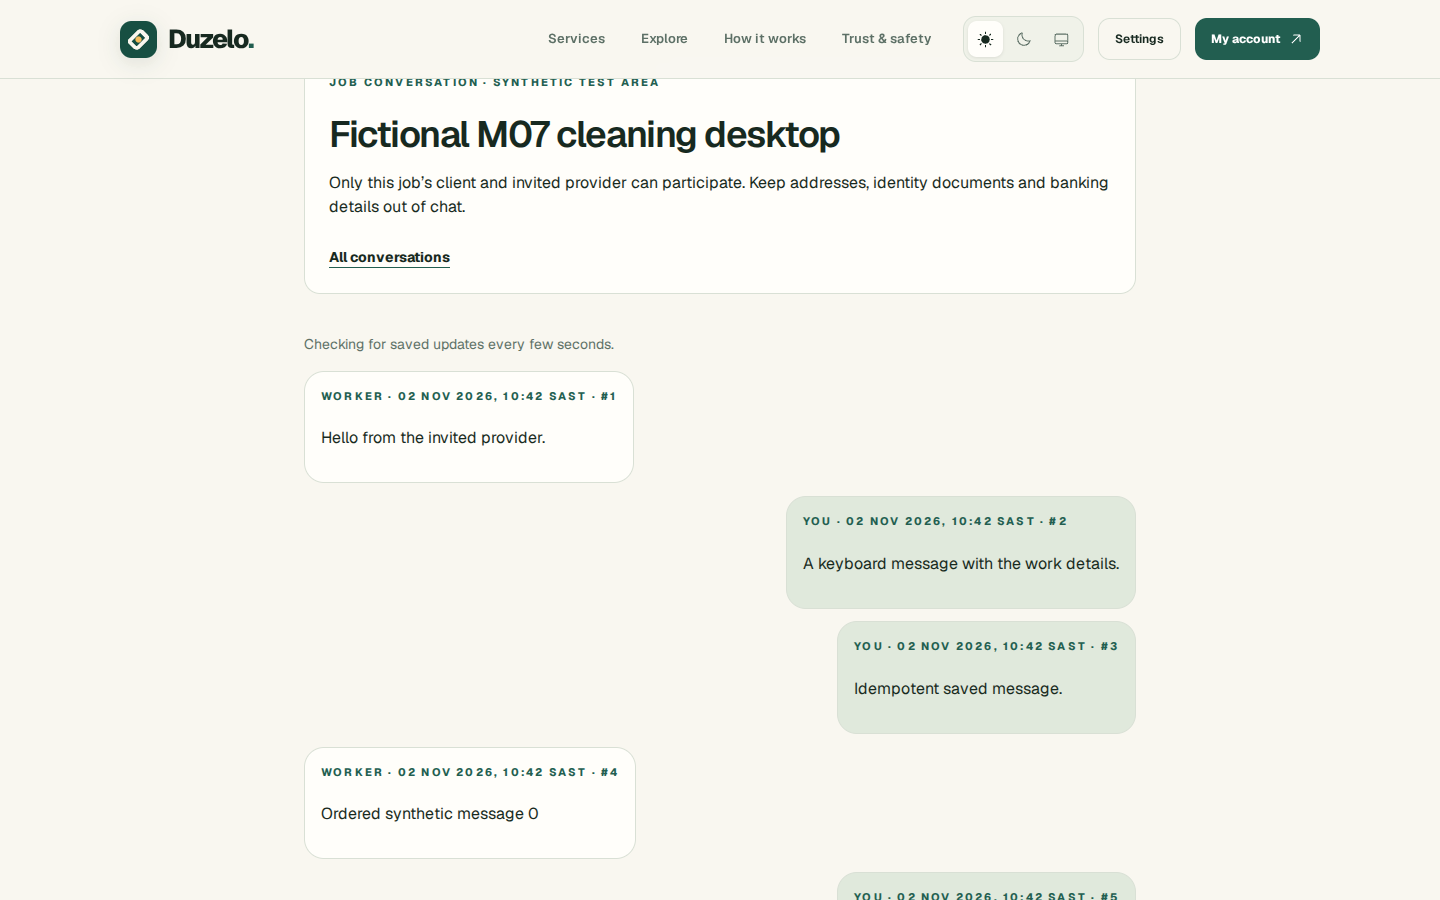
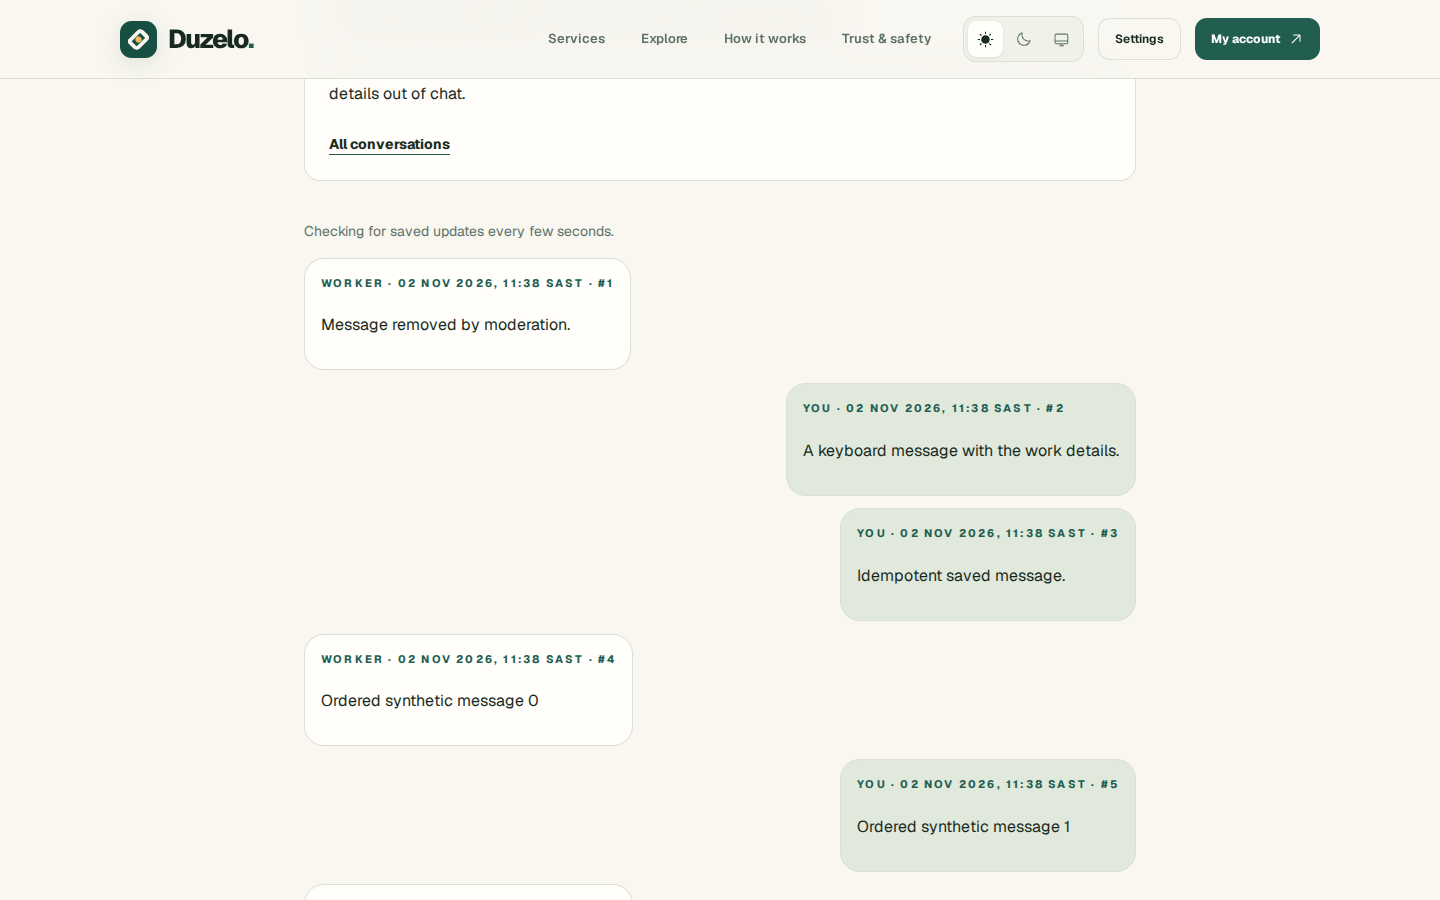
test(workflow): finalize reviewed native evidence and formatting

diff --git a/tests/auth-e2e/helpers/workflow-checks.ts b/tests/auth-e2e/helpers/workflow-checks.ts
@@ -25,11 +25,9 @@ export async function lifecycleChecks(
     .withExif({ IFD0: { ImageDescription: "EXIF-PRIVATE-42" } })
     .toBuffer();
   await worker.goto("/app/worker/bookings/" + b.bookingId);
-  const form = worker
-    .locator("form")
-    .filter({
-      has: worker.getByRole("heading", { name: "Submit completion for review", exact: true }),
-    });
+  const form = worker.locator("form").filter({
+    has: worker.getByRole("heading", { name: "Submit completion for review", exact: true }),
+  });
   const summary = form.getByLabel("Completion summary or explanation");
   await expect(summary).toHaveAttribute("minlength", "30");
   await expect(summary).toHaveAttribute("maxlength", "4000");

diff --git a/docs/evidence/milestone-07/README.md b/docs/evidence/milestone-07/README.md
@@ -33,3 +33,11 @@ Downloaded successful native artifact **13127162818**, run **41414562976**, and 
 | Ordered private conversation | [390×844](../screenshots/chat-thread-mobile.png) | [1440×900](../screenshots/chat-thread-desktop.png) |
 | Agreed price and appointment | [390×844](../screenshots/workflow-agreement-mobile.png) | [1440×900](../screenshots/workflow-agreement-desktop.png) |
 | MFA support queue | [390×844](../screenshots/audit-workflow-mobile.png) | [1440×900](../screenshots/audit-workflow-desktop.png) |
+
+## Reviewed implementation snapshot
+
+The review corrections in [REVIEW.md](REVIEW.md) were exercised on source `ef9730cea1262150c0401e89e11c54a6508b38b5`. [Application run 41421678990](https://github.com/thembaxx/duzelo/actions/runs/41421678990) passed database checks and all **14 native cases in 3.8 minutes**, including the new UI retry, photo-backed completion, cross-booking denial, removed-message updates, delayed audit selection and pagination regressions. Its five real server-secret canary scans passed against 46 browser assets. Separate database integration and visual checks passed. The verification job correctly failed formatting for one test-helper method chain that required a second formatter pass; that layout-only correction subsequently passed local `npm run format:check` and is included with this evidence. This failed verification attempt is not represented as a green final head.
+
+Local review checks passed: **286 unit assertions across 32 files**, lint, strict TypeScript, static SQL contracts, production build, 8 public browser cases, import boundaries, dependency audit (zero vulnerabilities) and secret scan (482 repository files, 46 browser assets; no local canary). Final head CI and deployment results remain in the PR release record.
+
+The six current PNGs in the table above supersede the earlier `9b4b5e4` images: they were downloaded from successful native artifact **13130841063**, run **41421678990**, source **ef9730c**, and all six were visually inspected at their original 390×844 or 1440×900 size. The thread captures now include a persisted moderation tombstone. Earlier captures remain in Git history; no images from previous milestones were replaced.
